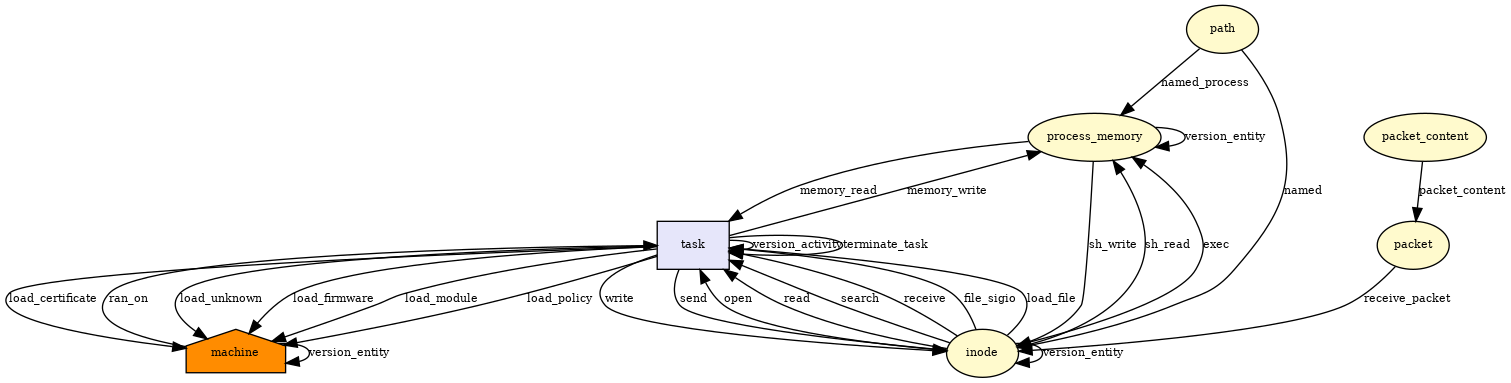
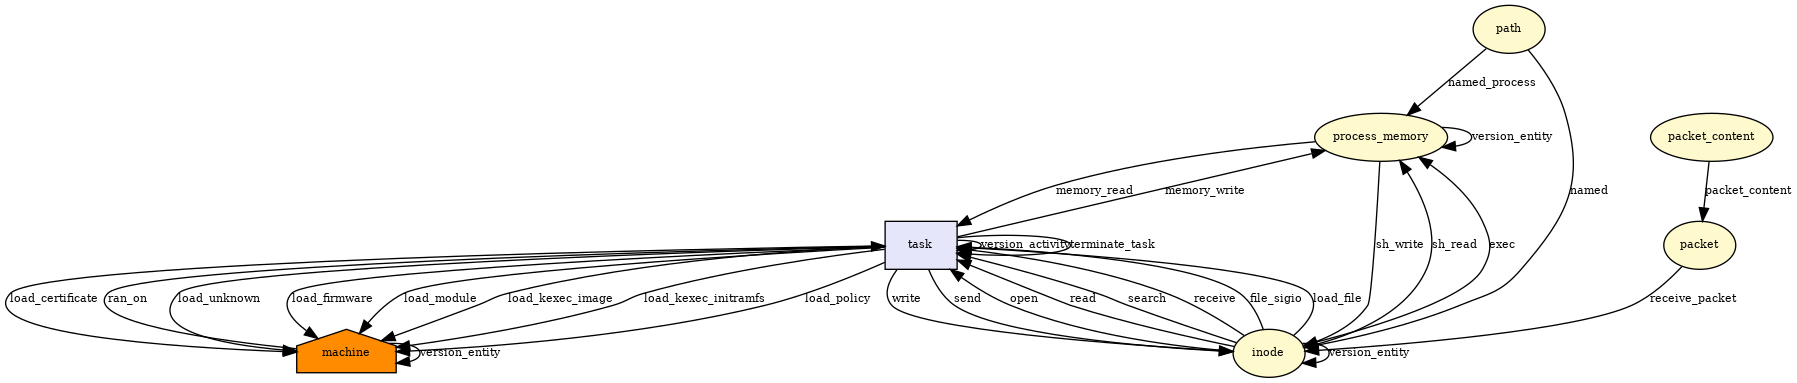
handle kexec properly

diff --git a/security/provenance/type.c b/security/provenance/type.c
@@ -102,6 +102,8 @@ static const char RL_STR_RAN_ON[] = "ran_on";                     // load file i
 static const char RL_STR_LOAD_UNKNOWN[] = "load_unknown";                      // load file into kernel
 static const char RL_STR_LOAD_FIRMWARE[] = "load_firmware";                       // load file into kernel
 static const char RL_STR_LOAD_MODULE[] = "load_module";                    // load file into kernel
+static const char RL_STR_LOAD_KEXEC_IMAGE[] = "load_kexec_image";                    // load file into kernel
+static const char RL_STR_LOAD_KEXEC_INITRAMFS[] = "load_kexec_initramfs";                    // load file into kernel
 static const char RL_STR_LOAD_POLICY[] = "load_policy";                    // load file into kernel
 static const char RL_STR_LOAD_CERTIFICATE[] = "load_certificate";                            // load file into kernel
 
@@ -311,6 +313,10 @@ const char* relation_str(uint64_t type)
 		return RL_STR_LOAD_FIRMWARE;
 	case RL_LOAD_MODULE:
 		return RL_STR_LOAD_MODULE;
+	case RL_LOAD_KEXEC_IMAGE:
+		return RL_STR_LOAD_KEXEC_IMAGE;
+	case RL_LOAD_KEXEC_INITRAMFS:
+		return RL_STR_LOAD_KEXEC_INITRAMFS;
 	case RL_LOAD_POLICY:
 		return RL_STR_LOAD_POLICY;
 	case RL_LOAD_CERTIFICATE:
@@ -412,6 +418,8 @@ uint64_t relation_id(const char* str)
 	MATCH_AND_RETURN(str, RL_STR_LOAD_UNKNOWN, RL_LOAD_UNKNOWN);
 	MATCH_AND_RETURN(str, RL_STR_LOAD_FIRMWARE, RL_LOAD_FIRMWARE);
 	MATCH_AND_RETURN(str, RL_STR_LOAD_MODULE, RL_LOAD_MODULE);
+	MATCH_AND_RETURN(str, RL_STR_LOAD_KEXEC_IMAGE, RL_LOAD_KEXEC_IMAGE);
+	MATCH_AND_RETURN(str, RL_STR_LOAD_KEXEC_INITRAMFS, RL_LOAD_KEXEC_INITRAMFS);
 	MATCH_AND_RETURN(str, RL_STR_LOAD_POLICY, RL_LOAD_POLICY);
 	MATCH_AND_RETURN(str, RL_STR_LOAD_CERTIFICATE, RL_LOAD_CERTIFICATE);
 	MATCH_AND_RETURN(str, RL_STR_RAN_ON, RL_RAN_ON);

diff --git a/include/uapi/linux/provenance_types.h b/include/uapi/linux/provenance_types.h
@@ -138,11 +138,13 @@
 /* no more than 51!!!! */
 
 /* INFLUENCED  SUBTYPES */
-#define RL_LOAD_UNKNOWN				(RL_INFLUENCED | (0x0000000000000001ULL))
-#define RL_LOAD_FIRMWARE			(RL_INFLUENCED | (0x0000000000000001ULL<<1))
-#define RL_LOAD_MODULE 				(RL_INFLUENCED | (0x0000000000000001ULL<<2))
-#define RL_LOAD_POLICY 				(RL_INFLUENCED | (0x0000000000000001ULL<<3))
-#define RL_LOAD_CERTIFICATE		(RL_INFLUENCED | (0x0000000000000001ULL<<4))
+#define RL_LOAD_UNKNOWN						(RL_INFLUENCED | (0x0000000000000001ULL))
+#define RL_LOAD_FIRMWARE					(RL_INFLUENCED | (0x0000000000000001ULL<<1))
+#define RL_LOAD_MODULE 						(RL_INFLUENCED | (0x0000000000000001ULL<<2))
+#define RL_LOAD_KEXEC_IMAGE				(RL_INFLUENCED | (0x0000000000000001ULL<<3))
+#define RL_LOAD_KEXEC_INITRAMFS		(RL_INFLUENCED | (0x0000000000000001ULL<<4))
+#define RL_LOAD_POLICY 						(RL_INFLUENCED | (0x0000000000000001ULL<<5))
+#define RL_LOAD_CERTIFICATE				(RL_INFLUENCED | (0x0000000000000001ULL<<6))
 
 /* ASSOCIATED  SUBTYPES */
 #define RL_RAN_ON			 				(RL_ASSOCIATED | (0x0000000000000001ULL))

diff --git a/security/provenance/hooks.c b/security/provenance/hooks.c
@@ -1132,6 +1132,12 @@ static int provenance_kernel_read_file(struct file *file
 		case READING_MODULE:
 			rc = record_influences_kernel(RL_LOAD_MODULE, iprov, tprov, file);
 			break;
+		case READING_KEXEC_IMAGE:
+			rc = record_influences_kernel(RL_LOAD_KEXEC_IMAGE, iprov, tprov, file);
+			break;
+		case READING_KEXEC_INITRAMFS:
+			rc = record_influences_kernel(RL_LOAD_KEXEC_INITRAMFS, iprov, tprov, file);
+			break;
 		case READING_POLICY:
 			rc = record_influences_kernel(RL_LOAD_POLICY, iprov, tprov, file);
 			break;

diff --git a/include/uapi/linux/provenance.h b/include/uapi/linux/provenance.h
@@ -30,7 +30,7 @@
   "."xstr(CAMFLOW_VERSION_MINOR)\
   "."xstr(CAMFLOW_VERSION_PATCH)\
 
-#define CAMFLOW_COMMIT "47ef065ce8c0060620792143768beb055dfe5cfb"
+#define CAMFLOW_COMMIT "274245c7e7ec93990711ae9c973f43d60ba42cb0"
 
 #define PROVENANCE_HASH "sha256"
 

diff --git a/docs/RELATIONS.md b/docs/RELATIONS.md
@@ -92,5 +92,7 @@ RL_RAN_ON|ran_on|load file into kernel|
 RL_LOAD_UNKNOWN|load_unknown|load file into kernel|
 RL_LOAD_FIRMWARE|load_firmware|load file into kernel|
 RL_LOAD_MODULE|load_module|load file into kernel|
+RL_LOAD_KEXEC_IMAGE|load_kexec_image|load file into kernel|
+RL_LOAD_KEXEC_INITRAMFS|load_kexec_initramfs|load file into kernel|
 RL_LOAD_POLICY|load_policy|load file into kernel|
 RL_LOAD_CERTIFICATE|load_certificate|load file into kernel|
